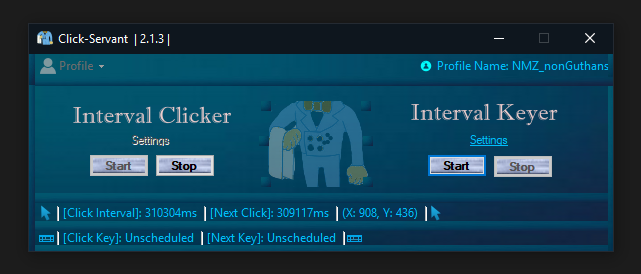
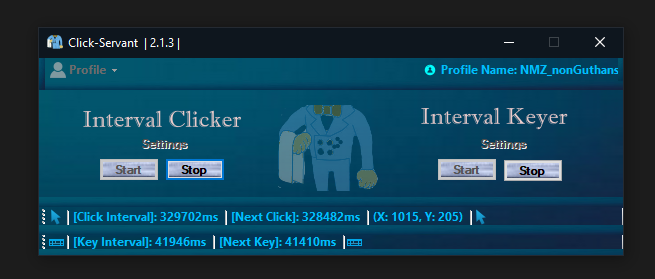
Update screenshots and readme

diff --git a/README.md b/README.md
@@ -17,6 +17,5 @@
 
 ![ScreenShot](https://github.com/aaprather/Click-Servant/blob/master/s3.png)
 ![ScreenShot](https://github.com/aaprather/Click-Servant/blob/master/s4.png)
-![ScreenShot](https://github.com/aaprather/Click-Servant/blob/master/s5.png)
-![ScreenShot](https://github.com/aaprather/Click-Servant/blob/master/s6.png)
+
 </p>
